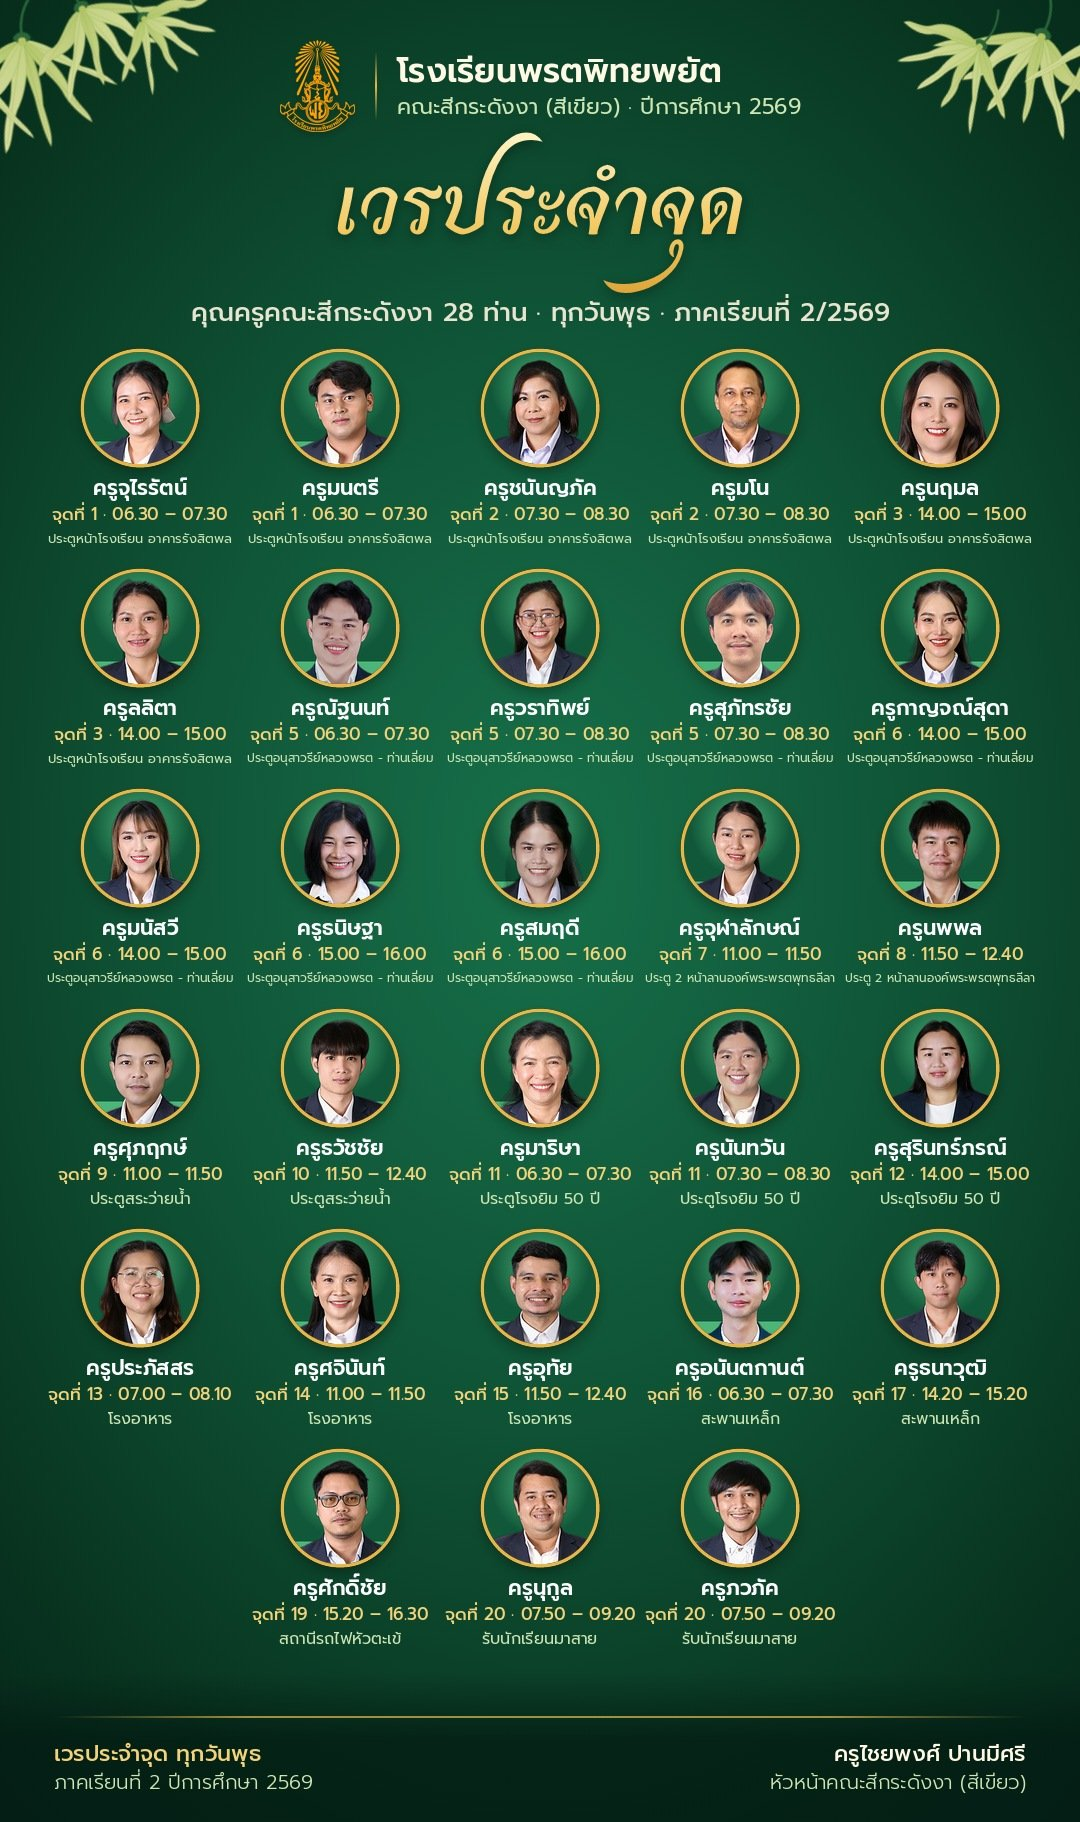
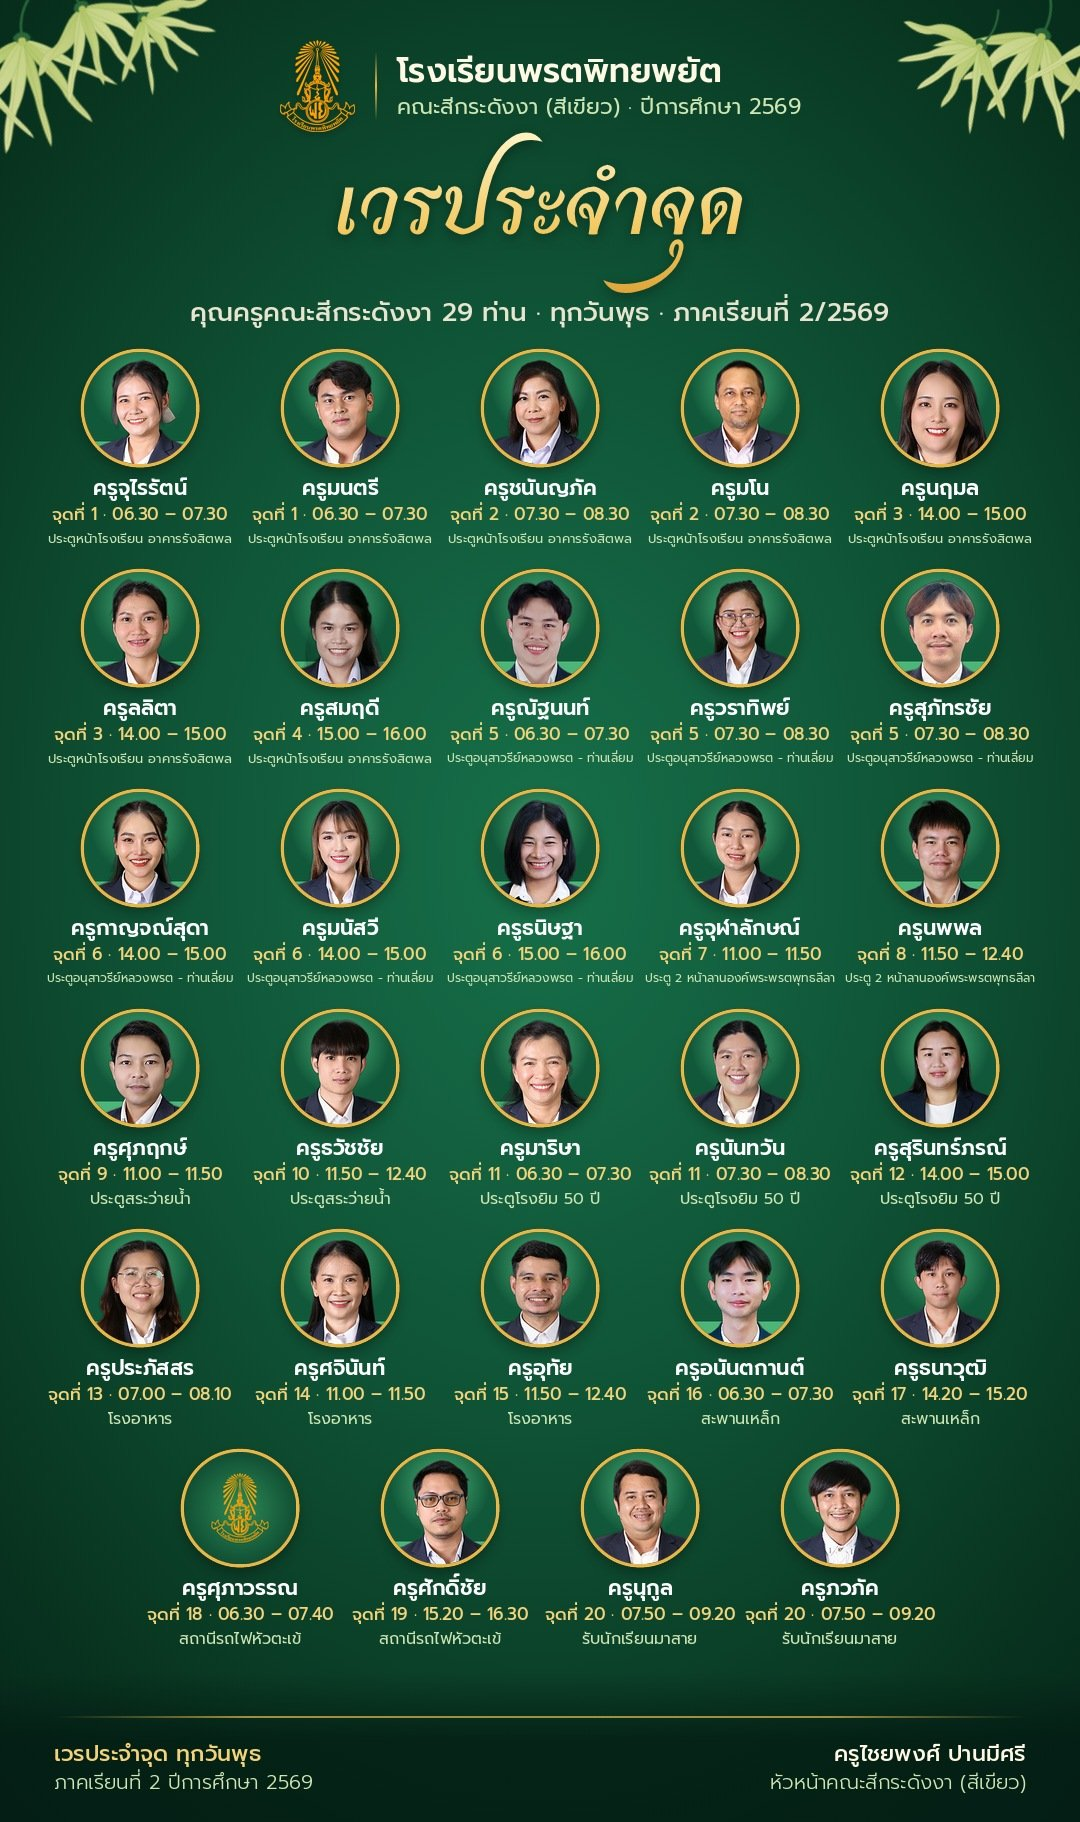
เปลี่ยนครูเวร

diff --git a/data/duty.js b/data/duty.js
@@ -1,7 +1,8 @@
 // เวรประจำจุดของครูคณะสีกระดังงา (หน้า duty.html และบรรทัด "เวร" ในทำเนียบครู) — ไฟล์นี้แก้ด้วยมือได้
-// ข้อมูลจากชีตลงเวรของครูไชยพงศ์ ตรวจเมื่อ 19 ต.ค. 2569
+// ข้อมูลจากชีตลงเวรของครูไชยพงศ์ ตรวจเมื่อ 19 ต.ค. 2569 (ฉบับแก้ไข 2: ครูสมฤดีย้ายไปจุด 4 ครูศุภาวรรณ ครูใหม่ ลงจุด 18)
 // spot: เลขจุด · place: บริเวณ · time: เวลา · period: "เช้า" | "กลางวัน" | "บ่าย"
 // teachers: ชื่อครูให้ตรงกับชื่อใน data/teachers.js (รูปครูดึงจากทำเนียบครูให้เอง) ถ้ายังไม่มีครูลงเวรให้เว้นเป็น []
+//   ครูที่ยังไม่อยู่ในทำเนียบครู (ยังไม่มีรูป) หน้าเวรจะแสดงตราโรงเรียนแทนรูป
 // images: ภาพ info เวรใน assets/img/duty/ (ภาพย่อชื่อเดียวกันลงท้าย -s.jpg)
 window.KD = window.KD || {};
 KD.dutyMeta = {
@@ -21,11 +22,11 @@ KD.duty = [
  {"spot": 1, "place": "ประตูหน้าโรงเรียน อาคารรังสิตพล", "time": "06.30 – 07.30 น.", "period": "เช้า", "teachers": ["ครูจุไรรัตน์ นาคเทวัญ", "ครูมนตรี ฉิมเจริญ"]},
  {"spot": 2, "place": "ประตูหน้าโรงเรียน อาคารรังสิตพล", "time": "07.30 – 08.30 น.", "period": "เช้า", "teachers": ["ครูชนันญภัค คชอาจ", "ครูมโน คงสวัสดิ์"]},
  {"spot": 3, "place": "ประตูหน้าโรงเรียน อาคารรังสิตพล", "time": "14.00 – 15.00 น.", "period": "บ่าย", "teachers": ["ครูนฤมล มะโนมัย", "ครูลลิตา อินไชยา"]},
- {"spot": 4, "place": "ประตูหน้าโรงเรียน อาคารรังสิตพล", "time": "15.00 – 16.00 น.", "period": "บ่าย", "teachers": []},
+ {"spot": 4, "place": "ประตูหน้าโรงเรียน อาคารรังสิตพล", "time": "15.00 – 16.00 น.", "period": "บ่าย", "teachers": ["ครูสมฤดี พูนผล"]},
  {"spot": 5, "place": "ประตูอนุสาวรีย์หลวงพรต - ท่านเลี่ยม", "time": "06.30 – 07.30 น.", "period": "เช้า", "teachers": ["ครูณัฐนนท์ ลิ้มทองคำ"]},
  {"spot": 5, "place": "ประตูอนุสาวรีย์หลวงพรต - ท่านเลี่ยม", "time": "07.30 – 08.30 น.", "period": "เช้า", "teachers": ["ครูวราทิพย์ ศรีอ่ำอ่วม", "ครูสุภัทรชัย สืบสกุล"]},
  {"spot": 6, "place": "ประตูอนุสาวรีย์หลวงพรต - ท่านเลี่ยม", "time": "14.00 – 15.00 น.", "period": "บ่าย", "teachers": ["ครูกาญจณ์สุดา รัตนพร", "ครูมนัสวี อ้นสนกราน"]},
- {"spot": 6, "place": "ประตูอนุสาวรีย์หลวงพรต - ท่านเลี่ยม", "time": "15.00 – 16.00 น.", "period": "บ่าย", "teachers": ["ครูธนิษฐา ดีสม", "ครูสมฤดี พูนผล"]},
+ {"spot": 6, "place": "ประตูอนุสาวรีย์หลวงพรต - ท่านเลี่ยม", "time": "15.00 – 16.00 น.", "period": "บ่าย", "teachers": ["ครูธนิษฐา ดีสม"]},
  {"spot": 7, "place": "ประตู 2 หน้าลานองค์พระพรตพุทธลีลา", "time": "11.00 – 11.50 น.", "period": "กลางวัน", "teachers": ["ครูจุฬาลักษณ์ กุลบุตรดี"]},
  {"spot": 8, "place": "ประตู 2 หน้าลานองค์พระพรตพุทธลีลา", "time": "11.50 – 12.40 น.", "period": "กลางวัน", "teachers": ["ครูนพพล ภาณุสุวัฒน์"]},
  {"spot": 9, "place": "ประตูสระว่ายน้ำ", "time": "11.00 – 11.50 น.", "period": "กลางวัน", "teachers": ["ครูศุภฤกษ์ เชื้อมั่น"]},
@@ -38,7 +39,7 @@ KD.duty = [
  {"spot": 15, "place": "โรงอาหาร", "time": "11.50 – 12.40 น.", "period": "กลางวัน", "teachers": ["ครูอุทัย นุ่นดำ"]},
  {"spot": 16, "place": "สะพานเหล็ก", "time": "06.30 – 07.30 น.", "period": "เช้า", "teachers": ["ครูอนันตกานต์ ทองสมบูรณ์"]},
  {"spot": 17, "place": "สะพานเหล็ก", "time": "14.20 – 15.20 น.", "period": "บ่าย", "teachers": ["ครูธนาวุฒิ อดิษะ"]},
- {"spot": 18, "place": "สถานีรถไฟหัวตะเข้", "time": "06.30 – 07.40 น.", "period": "เช้า", "teachers": []},
+ {"spot": 18, "place": "สถานีรถไฟหัวตะเข้", "time": "06.30 – 07.40 น.", "period": "เช้า", "teachers": ["ครูศุภาวรรณ จันทะมูล"]},
  {"spot": 19, "place": "สถานีรถไฟหัวตะเข้", "time": "15.20 – 16.30 น.", "period": "บ่าย", "teachers": ["ครูศักดิ์ชัย โชคบัณฑิต"]},
  {"spot": 20, "place": "รับนักเรียนมาสาย", "time": "07.50 – 09.20 น.", "period": "เช้า", "teachers": ["ครูนุกูล แสงวรรณเทศ", "ครูภวภัค จินนุกูล"]}
 ];

diff --git a/data/news.js b/data/news.js
@@ -6,7 +6,7 @@
 window.KD = window.KD || {};
 KD.news = [
   { date: "2026-10-19", type: "ประกาศ", title: "เวรประจำจุดคณะสีกระดังงา ภาคเรียนที่ 2/2569", image: "news_dutylist_2569-2.jpg",
-    body: "สรุปเวรประจำจุดของครูคณะสีเขียว ภาคเรียนที่ 2/2569 จากการลงชื่อของคุณครูแล้ว ลงเวรทุกวันพุธ 20 จุด คุณครู 28 ท่าน ดูได้ว่าครูแต่ละท่านอยู่จุดไหน เวลาเท่าไร พร้อมรูปครู และดาวน์โหลดภาพเวรไปส่งต่อในกลุ่ม LINE ได้ที่หน้าเวรประจำจุด ตอนนี้ยังไม่มีครูลงเวร 2 ช่วง คือจุดที่ 4 ประตูหน้าโรงเรียน อาคารรังสิตพล (15.00–16.00 น.) และจุดที่ 18 สถานีรถไฟหัวตะเข้ (06.30–07.40 น.) ถ้าข้อมูลไม่ถูกต้อง แจ้งครูไชยพงศ์ ปานมีศรี หัวหน้าคณะสีได้เลย",
+    body: "สรุปเวรประจำจุดของครูคณะสีเขียว ภาคเรียนที่ 2/2569 จากการลงชื่อของคุณครูแล้ว ลงเวรทุกวันพุธ 20 จุด คุณครู 29 ท่าน ครบทุกจุดแล้ว ดูได้ว่าครูแต่ละท่านอยู่จุดไหน เวลาเท่าไร พร้อมรูปครู และดาวน์โหลดภาพเวรไปส่งต่อในกลุ่ม LINE ได้ที่หน้าเวรประจำจุด ปรับล่าสุด 19 ต.ค. 2569 ครูสมฤดี พูนผล ย้ายไปจุดที่ 4 ประตูหน้าโรงเรียน อาคารรังสิตพล (15.00–16.00 น.) และครูศุภาวรรณ จันทะมูล ครูใหม่ของคณะสี ลงเวรจุดที่ 18 สถานีรถไฟหัวตะเข้ (06.30–07.40 น.) ถ้าข้อมูลไม่ถูกต้อง แจ้งครูไชยพงศ์ ปานมีศรี หัวหน้าคณะสีได้เลย",
     link: "duty.html", linkText: "ดูเวรของครูแต่ละท่าน" },
   { date: "2026-10-18", type: "ประกาศ", title: "เปิดลงเวรประจำจุดคณะสีเขียว ภาคเรียนที่ 2/2569", image: "news_duty_2569-2.jpg",
     body: "ครูไชยพงศ์ ปานมีศรี หัวหน้าคณะสี แจ้งว่าจะเปิดให้ครูคณะสีเขียวลงเวรประจำจุดของภาคเรียนที่ 2 ในวันจันทร์ที่ 19 ตุลาคม 2569 เวลา 08.00–09.00 น. ขอให้ครูดูตารางสอนออนไลน์ประกอบการเลือกจุด ภาคเรียนนี้มีจุดใหม่ที่สถานีรถไฟหัวตะเข้ ทั้งช่วงเช้าและช่วงเย็น แบบฟอร์มมีช่องลงชื่อทั้งหมด 32 ช่อง",

diff --git a/duty.html b/duty.html
@@ -4,13 +4,13 @@
 <meta charset="utf-8">
 <meta name="viewport" content="width=device-width, initial-scale=1">
 <title>เวรประจำจุด · คณะสีกระดังงา (สีเขียว)</title>
-<meta name="description" content="เวรประจำจุดของครูคณะสีกระดังงา (สีเขียว) ภาคเรียนที่ 2/2569 ทุกวันพุธ 20 จุด คุณครู 28 ท่าน ดูได้ว่าครูแต่ละท่านอยู่จุดไหน เวลาเท่าไร">
+<meta name="description" content="เวรประจำจุดของครูคณะสีกระดังงา (สีเขียว) ภาคเรียนที่ 2/2569 ทุกวันพุธ 20 จุด คุณครู 29 ท่าน ดูได้ว่าครูแต่ละท่านอยู่จุดไหน เวลาเท่าไร">
 <link rel="icon" href="assets/img/favicon.png">
 <link rel="stylesheet" href="css/style.css">
 </head>
 <body>
 <section class="page-head duty-head">
-  <div class="wrap"><div class="eyebrow">คณะสีกระดังงา · สีเขียว</div><h1>เวรประจำจุด</h1><p id="duty-sub">ภาคเรียนที่ 2/2569 · ทุกวันพุธ · 20 จุด · คุณครู 28 ท่าน</p></div>
+  <div class="wrap"><div class="eyebrow">คณะสีกระดังงา · สีเขียว</div><h1>เวรประจำจุด</h1><p id="duty-sub">ภาคเรียนที่ 2/2569 · ทุกวันพุธ · 20 จุด · คุณครู 29 ท่าน</p></div>
   <img class="duty-flower f1" src="assets/img/kradangnga-flower.svg" alt="" aria-hidden="true">
   <img class="duty-flower f2" src="assets/img/kradangnga-flower.svg" alt="" aria-hidden="true">
 </section>
@@ -51,7 +51,8 @@ document.getElementById("duty-sub").textContent =
 function person(n, sel) {
   const nm = n.replace(/^ครู/, ""), sp = nm.indexOf(" ");
   const first = sp > 0 ? nm.slice(0, sp) : nm, last = sp > 0 ? nm.slice(sp + 1) : "";
-  const ph = photo[n] ? `<img src="${esc(photo[n])}" alt="${esc(n)}" loading="lazy">` : `<i>${esc(first.charAt(0))}</i>`;
+  const ph = photo[n] ? `<img src="${esc(photo[n])}" alt="${esc(n)}" loading="lazy">`
+    : `<img class="no-photo" src="assets/img/logo.png" alt="${esc(n)} (ยังไม่มีรูป)" loading="lazy">`;
   return `<div class="dt${n === sel ? " me" : ""}"><span class="dt-ph">${ph}</span><b>ครู${esc(first)}</b><small>${esc(last)}</small></div>`;
 }
 function card(d, sel) {

diff --git a/css/style.css b/css/style.css
@@ -863,6 +863,7 @@ ul.clean li { margin-bottom: 6px; }
 .dt-ph { position: relative; display: block; width: 92px; height: 92px; border-radius: 50%; padding: 4px; overflow: hidden; isolation: isolate; }
 .dt-ph::before { content: ""; position: absolute; inset: -30%; z-index: -1; background: conic-gradient(var(--gold-deep), var(--gold-pale), var(--gold), var(--gold-deep), var(--gold-pale), var(--gold-deep)); animation: ig-spin 7s linear infinite; }
 .dt-ph img, .dt-ph i { display: flex; align-items: center; justify-content: center; width: 100%; height: 100%; border-radius: 50%; object-fit: cover; object-position: top; background: radial-gradient(circle at 50% 38%, var(--green-600), var(--green-800)); font-style: normal; font-family: "Prompt"; font-size: 2rem; color: var(--gold-soft); }
+.dt-ph img.no-photo { object-fit: contain; object-position: center; padding: 15px 17px 17px; }
 .dt.me .dt-ph { box-shadow: 0 0 0 4px rgba(233,185,73,.35); }
 .dt.me b { color: var(--gold-deep); }
 .duty-note { color: var(--ink-soft); font-size: .92rem; margin: 6px 0 0; padding-top: 2px; }

diff --git a/README.md b/README.md
@@ -33,7 +33,7 @@
 
 ## เวรประจำจุดของครู (หน้า duty.html)
 
-- ข้อมูลอยู่ที่ `data/duty.js` แต่ละช่วงเวรมี เลขจุด บริเวณ เวลา ช่วง (เช้า/กลางวัน/บ่าย) และชื่อครู ชื่อครูต้องตรงกับ `data/teachers.js` รูปครูดึงจากทำเนียบครูให้เอง ช่วงที่ยังไม่มีครูลงเวรให้เว้นเป็น `[]`
+- ข้อมูลอยู่ที่ `data/duty.js` แต่ละช่วงเวรมี เลขจุด บริเวณ เวลา ช่วง (เช้า/กลางวัน/บ่าย) และชื่อครู ชื่อครูต้องตรงกับ `data/teachers.js` รูปครูดึงจากทำเนียบครูให้เอง ช่วงที่ยังไม่มีครูลงเวรให้เว้นเป็น `[]` ครูที่ยังไม่อยู่ในทำเนียบครู (เช่น ครูใหม่ที่ยังไม่มีรูป) หน้าเวรจะแสดงตราโรงเรียนในวงกลมแทนรูป
 - ทำเนียบครูแสดงบรรทัด "เวร: จุดที่ ..." ใต้ชื่อครูจากไฟล์เดียวกัน กดแล้วไปหน้าเวรที่เลือกชื่อครูไว้ให้ (`duty.html?t=ชื่อครู`)
 - ภาพเวรสำหรับส่งกลุ่ม LINE อยู่ที่ `assets/img/duty/` (ภาพย่อลงท้าย `-s.jpg`) รายชื่อไฟล์อยู่ใน `KD.dutyMeta.images`
 - ขึ้นภาคเรียนใหม่ ให้แก้ `data/duty.js` เปลี่ยนภาพใน `assets/img/duty/` และเพิ่มข่าวใน `data/news.js`
